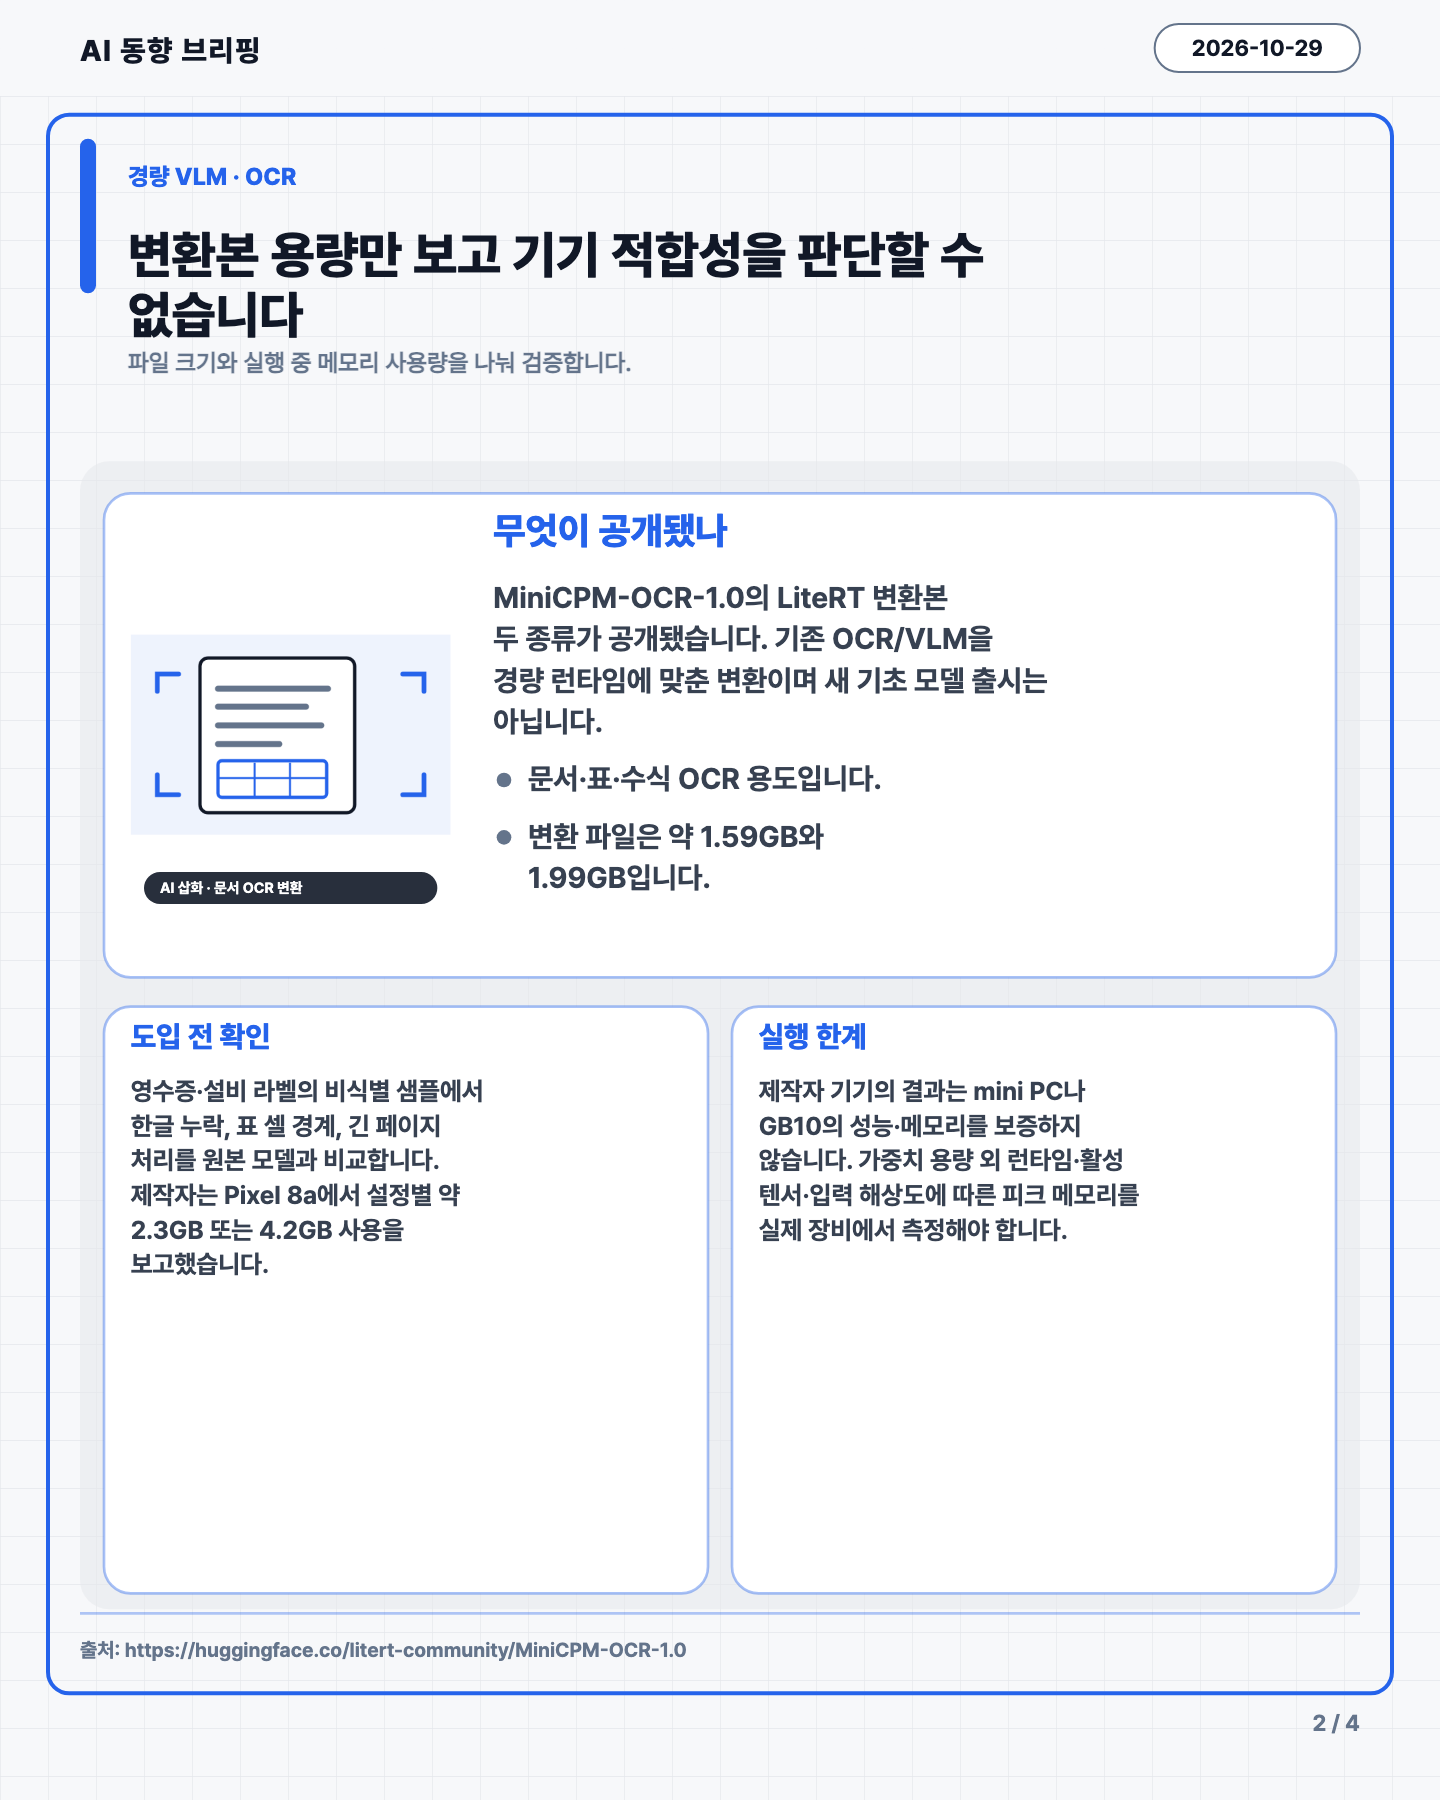
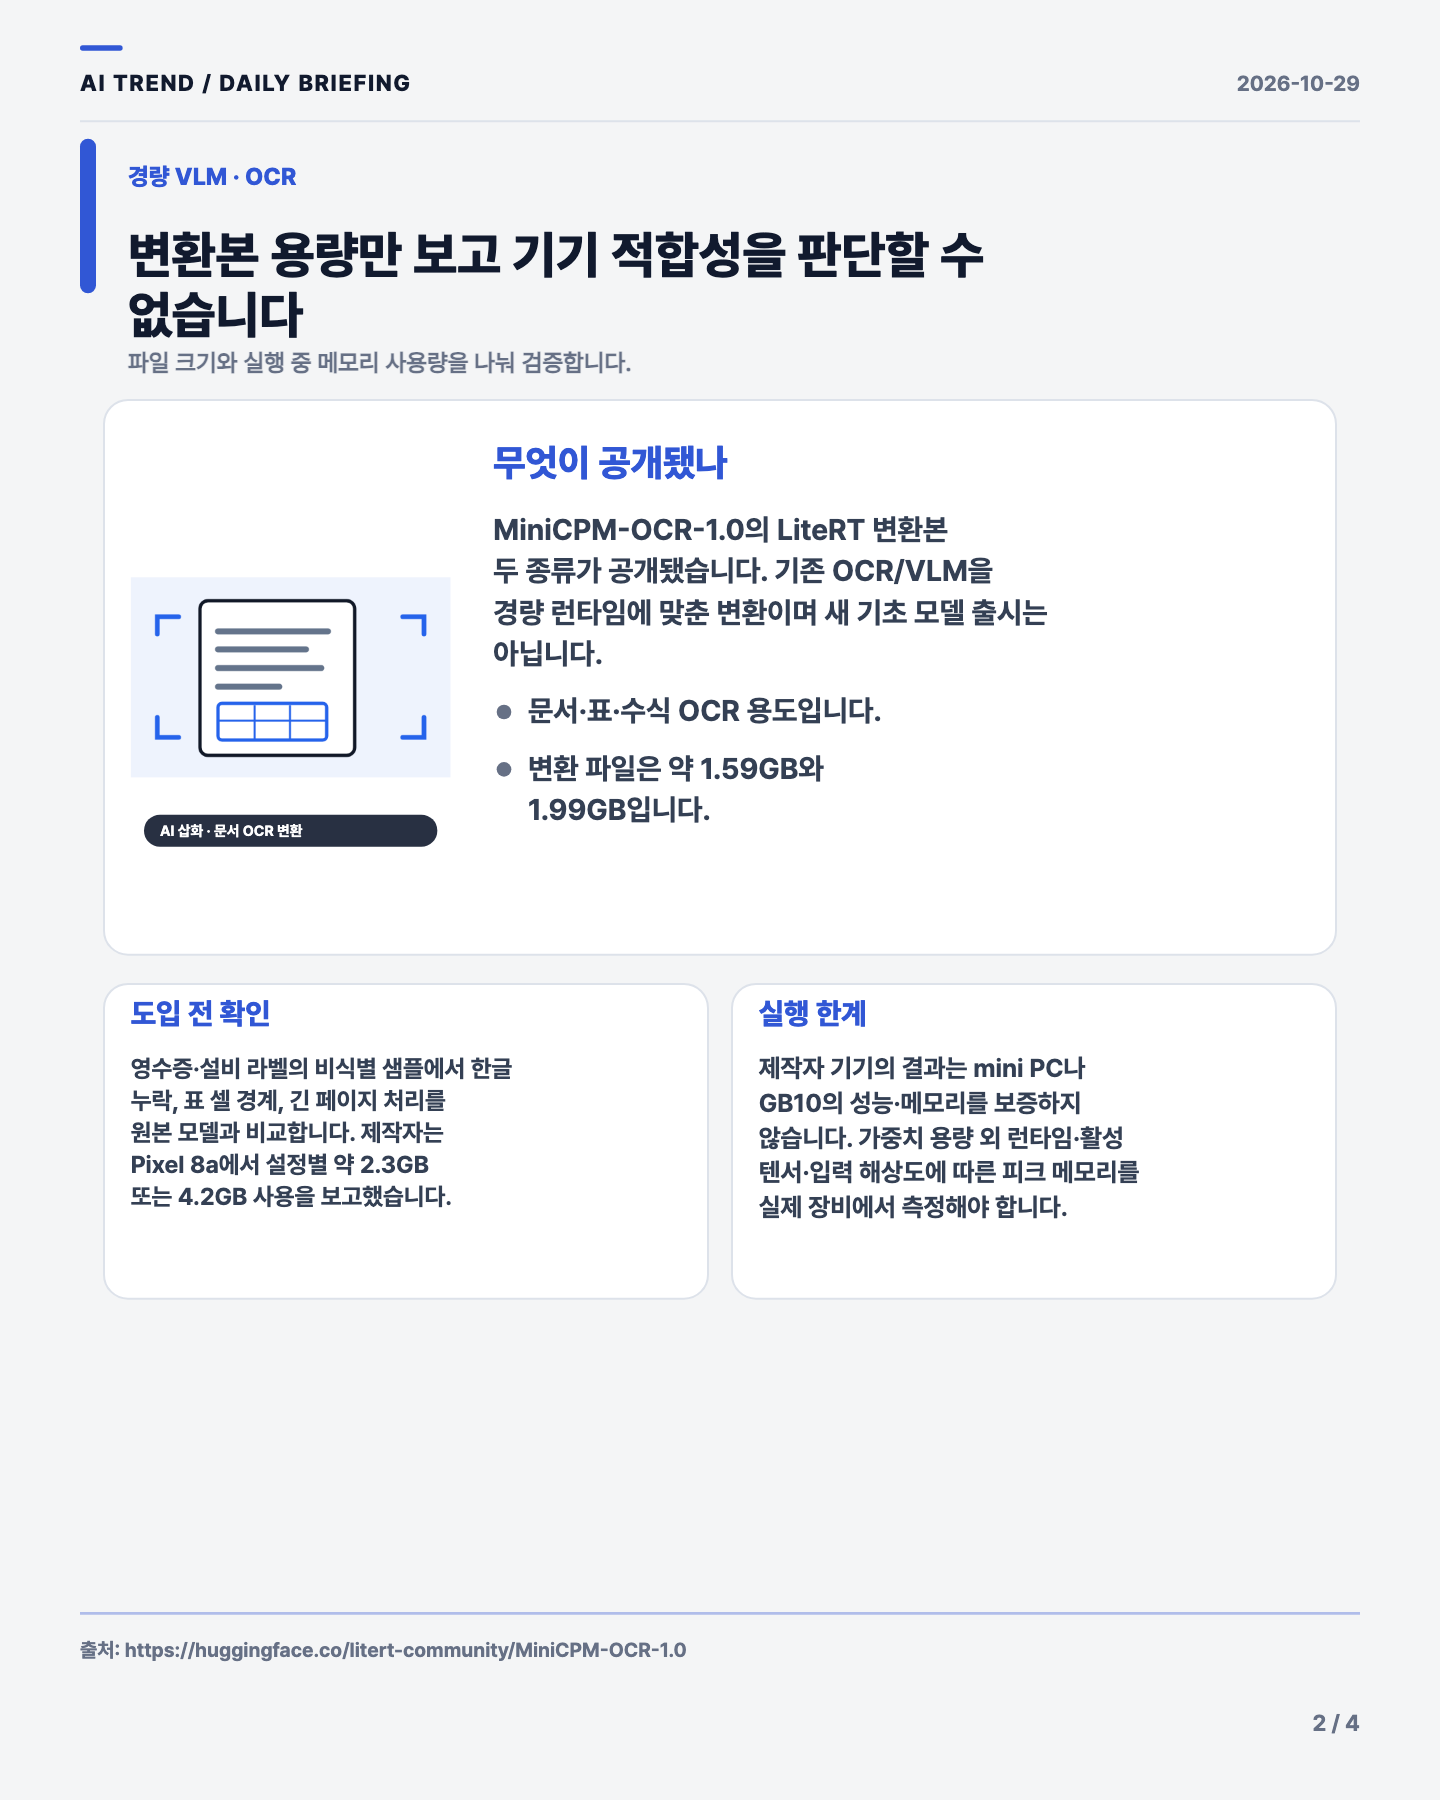
Polish AI trend carousel editorial design

diff --git a/README.md b/README.md
@@ -132,7 +132,7 @@ API가 없거나 로그인 장벽이 있는 소스가 섞여 있어, **헤드리
 
 ## 일간 기사 카드뉴스
 
-카드뉴스는 한국어 편집 기사처럼 표지와 상세 장면을 이어 읽는 4:5 세로형 캐러셀입니다. 표지는 기사마다 관련 삽화·제목·한줄 요약·핵심 사실을 한 행에 묶어, 표지만 봐도 당일 내용을 파악할 수 있게 구성합니다. 배경은 밝은 종이색, 본문은 짙은 남색으로 두고 코발트·호박색을 정보 구조와 강조에 씁니다. 각 기사에는 주제별 삽화와 눈에 보이는 `AI 삽화` 캡션을 붙입니다. 삽화는 설명용 시각 자료이며 사실의 근거나 실제 사건 사진처럼 다루지 않습니다.
+카드뉴스는 편집 매거진처럼 표지와 상세 장면을 이어 읽는 4:5 세로형 캐러셀입니다. 표지는 짙은 잉크색 바탕 위에 리드 기사 하나를 크게 보여 주고, 나머지 기사는 번호가 붙은 목록으로 정리해 정보의 우선순위를 분명히 합니다. 상세 장은 밝은 종이색, 넉넉한 여백, 절제한 코발트 강조, 일관된 출처·페이지 표기를 사용합니다. 각 기사에는 주제별 삽화와 눈에 보이는 `AI 삽화` 캡션을 붙입니다. 삽화는 설명용 시각 자료이며 사실의 근거나 실제 사건 사진처럼 다루지 않습니다.
 
 ### 입력과 결과
 
